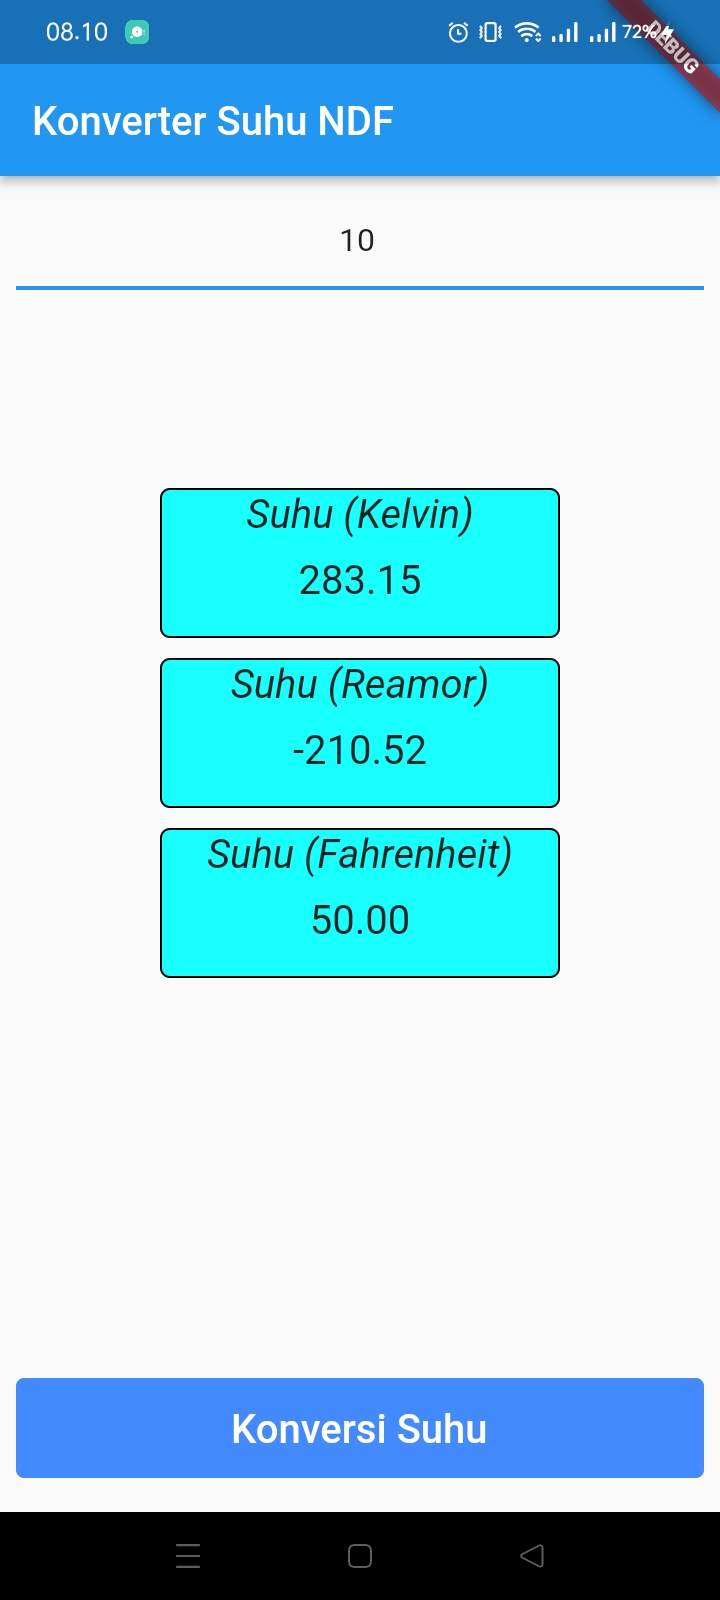
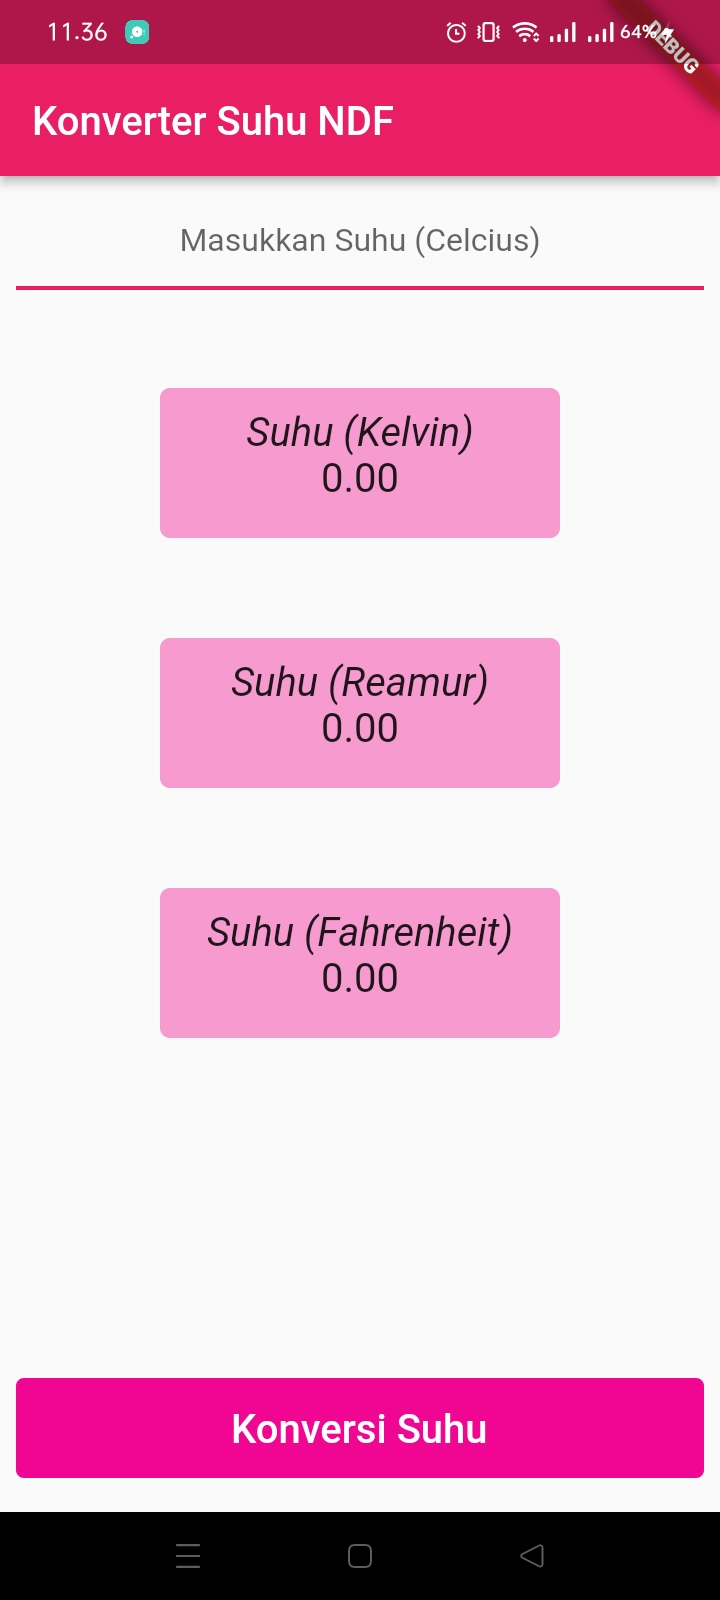
update widget

diff --git a/lib/widgetku/myapp.dart b/lib/widgetku/myapp.dart
@@ -1,4 +1,5 @@
 import 'package:flutter/material.dart';
+import 'package:konversi_suhu_flutter/widgetku/rowtext.dart';
 
 import 'convert.dart';
 import 'input.dart';
@@ -38,7 +39,7 @@ class _MyAppState extends State<MyApp> {
     return MaterialApp(
       title: 'Flutter Demo',
       theme: ThemeData(
-        primarySwatch: Colors.blue,
+        primarySwatch: Colors.pink,
         visualDensity: VisualDensity.adaptivePlatformDensity,
       ),
       home: Scaffold(
@@ -50,114 +51,13 @@ class _MyAppState extends State<MyApp> {
           child: Column(
             children: <Widget>[
               Input(myController: myController),
-              Container(
-                  width: 200,
-                  height: 75,
-                  decoration: BoxDecoration(
-                    color: Colors.cyanAccent,
-                    border: Border.all(
-                        color: Colors.black, style: BorderStyle.solid),
-                    borderRadius: BorderRadius.circular(5),
-                  ),
-                  margin: const EdgeInsets.only(top: 100),
-                  child: Row(
-                    mainAxisAlignment: MainAxisAlignment.center,
-                    children: <Widget>[
-                      Column(
-                        children: [
-                          Container(
-                            margin: const EdgeInsets.only(right: 0),
-                            child: const Text(
-                              "Suhu (Kelvin)",
-                              style: TextStyle(
-                                  fontSize: 20, fontStyle: FontStyle.italic),
-                              textAlign: TextAlign.center,
-                            ),
-                          ),
-                          Container(
-                            margin: const EdgeInsets.only(top: 10),
-                            child: Text(
-                              _kelvin.toStringAsFixed(2),
-                              style: const TextStyle(fontSize: 20),
-                              textAlign: TextAlign.center,
-                            ),
-                          ),
-                        ],
-                      ),
-                    ],
-                  )),
-              Container(
-                  margin: const EdgeInsets.only(top: 10),
-                  width: 200,
-                  height: 75,
-                  decoration: BoxDecoration(
-                    color: Colors.cyanAccent,
-                    border: Border.all(
-                        color: Colors.black, style: BorderStyle.solid),
-                    borderRadius: BorderRadius.circular(5),
-                  ),
-                  child: Row(
-                    mainAxisAlignment: MainAxisAlignment.center,
-                    children: <Widget>[
-                      Column(
-                        children: [
-                          Container(
-                            margin: const EdgeInsets.only(left: 0),
-                            child: const Text(
-                              "Suhu (Reamor)",
-                              style: TextStyle(
-                                  fontSize: 20, fontStyle: FontStyle.italic),
-                              textAlign: TextAlign.center,
-                            ),
-                          ),
-                          Container(
-                            margin: const EdgeInsets.only(top: 10),
-                            child: Text(
-                              _reamor.toStringAsFixed(2),
-                              style: const TextStyle(fontSize: 20),
-                              textAlign: TextAlign.center,
-                            ),
-                          ),
-                        ],
-                      ),
-                    ],
-                  )),
-              Container(
-                  margin: const EdgeInsets.only(top: 10),
-                  width: 200,
-                  height: 75,
-                  decoration: BoxDecoration(
-                    color: Colors.cyanAccent,
-                    border: Border.all(
-                        color: Colors.black, style: BorderStyle.solid),
-                    borderRadius: BorderRadius.circular(5),
-                  ),
-                  child: Row(
-                    mainAxisAlignment: MainAxisAlignment.center,
-                    children: <Widget>[
-                      Column(
-                        children: [
-                          Container(
-                            margin: const EdgeInsets.only(left: 0),
-                            child: const Text(
-                              "Suhu (Fahrenheit)",
-                              style: TextStyle(
-                                  fontSize: 20, fontStyle: FontStyle.italic),
-                              textAlign: TextAlign.center,
-                            ),
-                          ),
-                          Container(
-                            margin: const EdgeInsets.only(top: 10),
-                            child: Text(
-                              _fahrenheit.toStringAsFixed(2),
-                              style: const TextStyle(fontSize: 20),
-                              textAlign: TextAlign.center,
-                            ),
-                          ),
-                        ],
-                      )
-                    ],
-                  )),
+              rowText(
+                  text1: 'Suhu (Kelvin)', text2: _kelvin.toStringAsFixed(2)),
+              rowText(
+                  text1: 'Suhu (Reamur)', text2: _reamor.toStringAsFixed(2)),
+              rowText(
+                  text1: 'Suhu (Fahrenheit)',
+                  text2: _fahrenheit.toStringAsFixed(2)),
               Convert(konvertHandler: _konversiSuhu),
             ],
           ),

diff --git a/lib/widgetku/rowtext.dart b/lib/widgetku/rowtext.dart
@@ -1,0 +1,42 @@
+import 'package:flutter/material.dart';
+
+// ignore: camel_case_types
+class rowText extends StatelessWidget {
+  const rowText({super.key, required this.text1, required this.text2});
+
+  final String text1;
+  final String text2;
+
+  @override
+  Widget build(BuildContext context) {
+    return Container(
+        width: 200,
+        height: 75,
+        padding: const EdgeInsets.all(10),
+        decoration: BoxDecoration(
+          color: const Color.fromARGB(255, 247, 154, 207),
+          borderRadius: BorderRadius.circular(5),
+        ),
+        margin: const EdgeInsets.only(top: 50),
+        child: Row(
+          mainAxisAlignment: MainAxisAlignment.center,
+          children: <Widget>[
+            Column(
+              children: [
+                Text(
+                  text1,
+                  style: const TextStyle(
+                      fontSize: 20, fontStyle: FontStyle.italic),
+                  textAlign: TextAlign.center,
+                ),
+                Text(
+                  text2,
+                  style: const TextStyle(fontSize: 20),
+                  textAlign: TextAlign.center,
+                ),
+              ],
+            ),
+          ],
+        ));
+  }
+}

diff --git a/lib/widgetku/convert.dart b/lib/widgetku/convert.dart
@@ -8,14 +8,15 @@ class Convert extends StatelessWidget {
   @override
   Widget build(BuildContext context) {
     return Container(
-        margin: const EdgeInsets.only(top: 200),
+        margin: const EdgeInsets.only(top: 170),
         width: double.infinity,
         height: 50,
         child: TextButton(
             onPressed: () {
               konvertHandler();
             },
-            style: TextButton.styleFrom(backgroundColor: Colors.blueAccent),
+            style: TextButton.styleFrom(
+                backgroundColor: const Color.fromARGB(255, 241, 6, 147)),
             child: const Text(
               "Konversi Suhu",
               style: TextStyle(

diff --git a/README.md b/README.md
@@ -1,6 +1,6 @@
 # konversi_suhu_flutter
 
-![conv1](images/v2.jpeg)
-![conv2](images/v1.jpeg)
+![conv1](images/v1.jpeg)
+![conv2](images/v2.jpeg)
 
 ## Tugas 5 flutter
